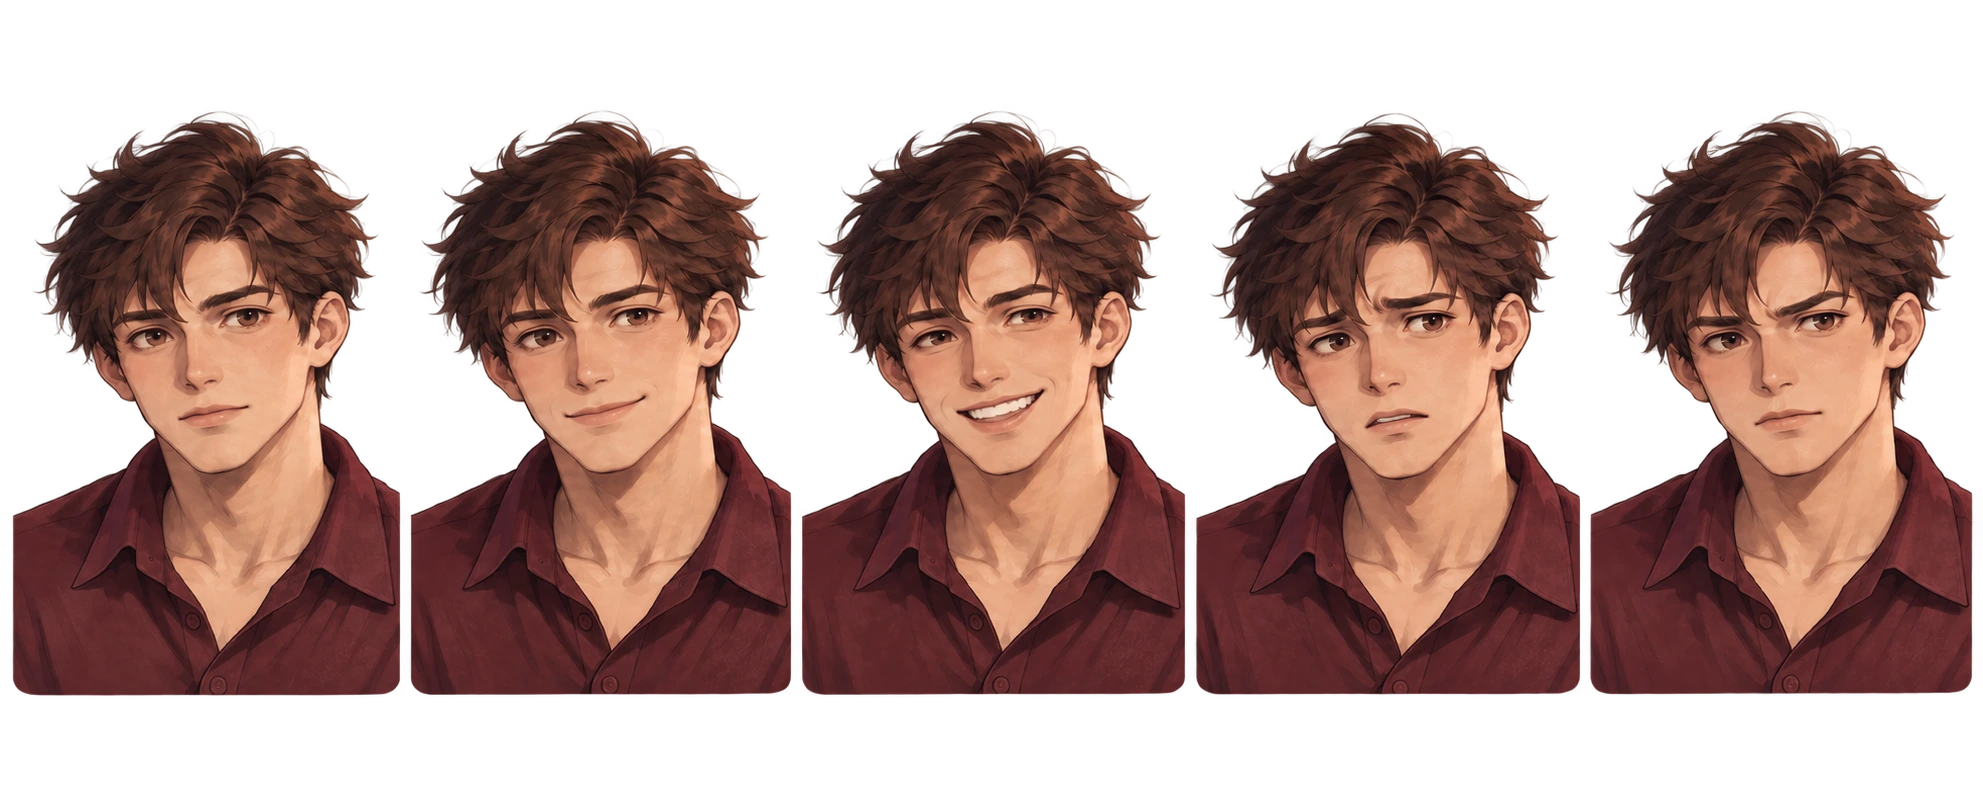
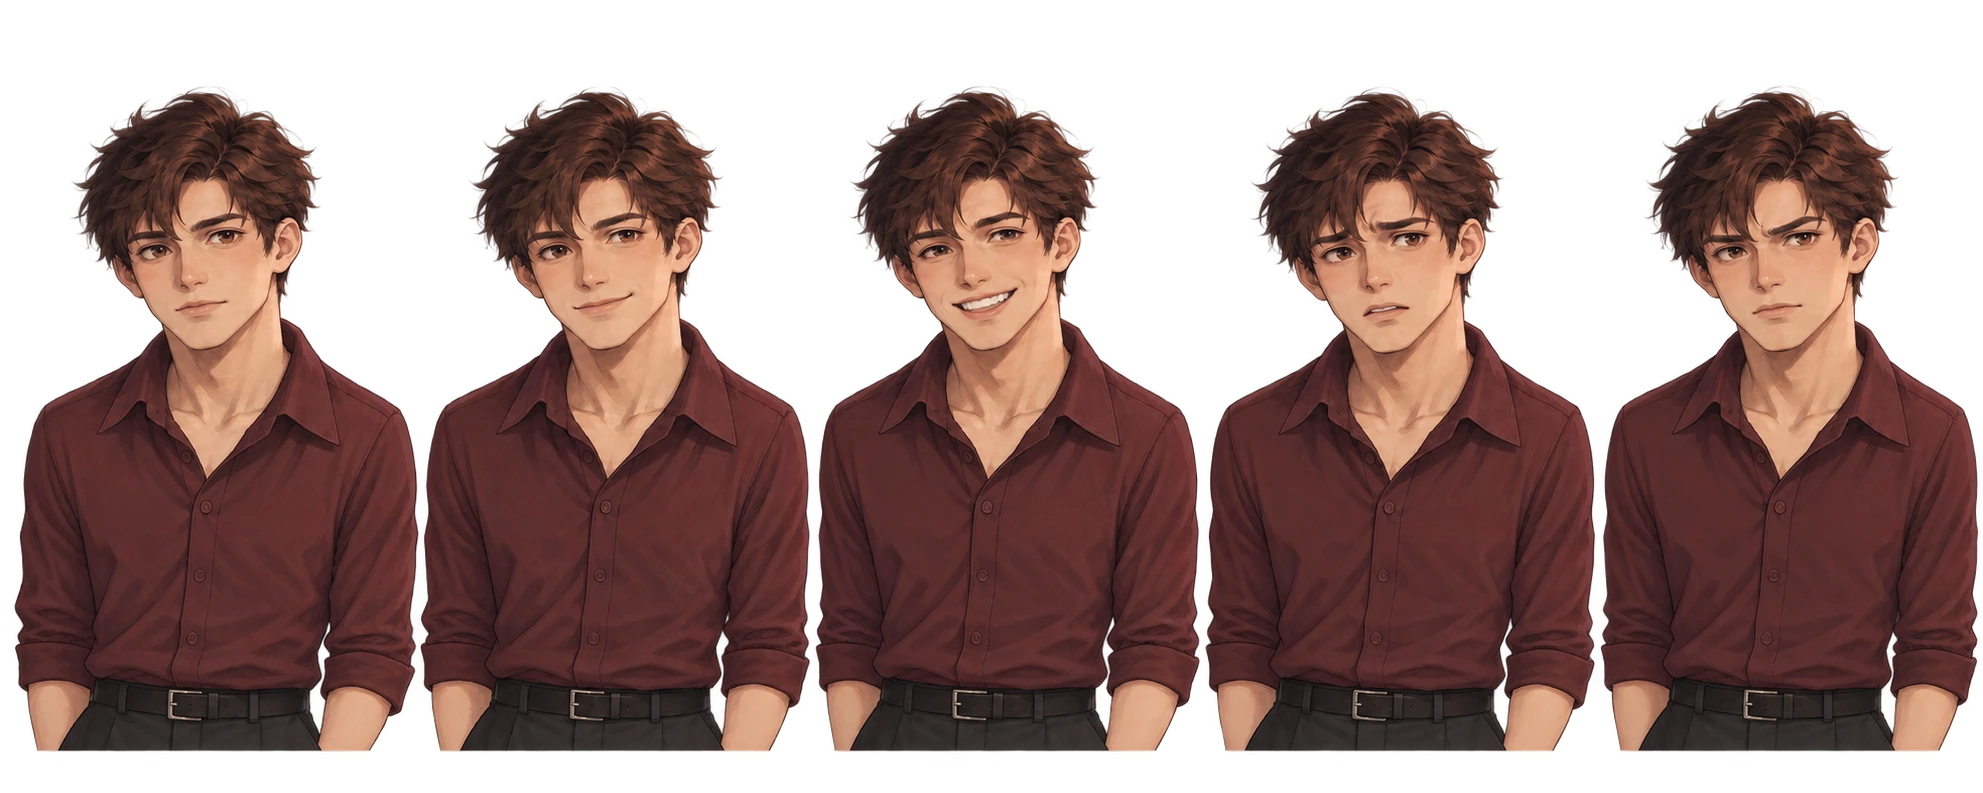
Restore complete shoulders and correct individual portrait frames

diff --git a/src/render/portrait-frames.ts b/src/render/portrait-frames.ts
@@ -1,45 +1,101 @@
-// Transparent expression sheets: neutral, smile, joy, worry, stern.
-export const portraitFrames: Record<string, {width: number; sourceHeight: number; top: number; height: number}> = {
+// Transparent waist-up sheets; per-frame bounds preserve complete shoulder silhouettes.
+export const portraitFrames: Record<string, {width: number; sourceHeight: number; top: number; height: number; edges: number[]}> = {
   "hero-f": {
     "width": 2078,
     "sourceHeight": 757,
-    "top": 68,
-    "height": 628
+    "top": 30,
+    "height": 688,
+    "edges": [
+      0,
+      433,
+      838,
+      1244,
+      1662,
+      2078
+    ]
   },
   "hero-m": {
     "width": 1983,
     "sourceHeight": 793,
-    "top": 71,
-    "height": 658
+    "top": 31,
+    "height": 721,
+    "edges": [
+      0,
+      421,
+      814,
+      1203,
+      1598,
+      1983
+    ]
   },
   "kurator": {
-    "width": 2041,
+    "width": 2042,
     "sourceHeight": 770,
-    "top": 69,
-    "height": 639
+    "top": 30,
+    "height": 700,
+    "edges": [
+      0,
+      424,
+      828,
+      1224,
+      1634,
+      2042
+    ]
   },
   "director-college": {
-    "width": 1915,
-    "sourceHeight": 821,
-    "top": 73,
-    "height": 681
+    "width": 2146,
+    "sourceHeight": 733,
+    "top": 29,
+    "height": 667,
+    "edges": [
+      0,
+      456,
+      870,
+      1302,
+      1730,
+      2146
+    ]
   },
   "director-company": {
-    "width": 2035,
-    "sourceHeight": 773,
-    "top": 69,
-    "height": 641
-  },
-  "mentor": {
-    "width": 2067,
-    "sourceHeight": 761,
-    "top": 68,
-    "height": 631
+    "width": 2032,
+    "sourceHeight": 774,
+    "top": 30,
+    "height": 704,
+    "edges": [
+      0,
+      410,
+      810,
+      1214,
+      1622,
+      2032
+    ]
   },
   "hr": {
     "width": 2048,
     "sourceHeight": 768,
-    "top": 69,
-    "height": 637
+    "top": 30,
+    "height": 698,
+    "edges": [
+      0,
+      432,
+      830,
+      1236,
+      1642,
+      2048
+    ]
+  },
+  "mentor": {
+    "width": 2067,
+    "sourceHeight": 761,
+    "top": 30,
+    "height": 692,
+    "edges": [
+      0,
+      412,
+      825,
+      1234,
+      1647,
+      2067
+    ]
   }
 };

diff --git a/src/render/illustrated-portraits.ts b/src/render/illustrated-portraits.ts
@@ -11,8 +11,8 @@ export function illustratedPortrait(id: string, emotion: Emotion, label: string,
   const image = images[`../../assets/portraits/${id}.webp`];
   if (!frame || !image) return undefined;
   const index = Math.max(0, emotions.indexOf(emotion));
-  const width = frame.width / 5;
-  const x = width * index;
+  const x = frame.edges[index]!;
+  const width = frame.edges[index + 1]! - x;
   const backing = plate ? `<rect x="${x}" y="${frame.top}" width="${width}" height="${frame.height}" rx="20" fill="${escapeAttribute(plate)}"/>` : '';
   return `<svg class="illustrated-portrait" data-character="${escapeAttribute(id)}" data-emotion="${emotion}" viewBox="${x} ${frame.top} ${width} ${frame.height}" width="${width}" height="${frame.height}" xmlns="http://www.w3.org/2000/svg" role="img" aria-label="${escapeAttribute(label)}">
     ${backing}<image href="${image}" x="0" y="0" width="${frame.width}" height="${frame.sourceHeight}"/>

diff --git a/assets/portraits/README.md b/assets/portraits/README.md
@@ -15,3 +15,7 @@
 в `src/render/illustrated-portraits.ts`. Эмоции выбираются SVG-окном без
 повторной загрузки изображения. Отдельные подписи имени и роли выводит UI.
 Существующие параметры SVG сохранены как запасной вариант для новых персонажей.
+
+Портреты дорисованы до пояса с полным контуром плеч и верхней части рук.
+Кадры оставляют боковые прозрачные отступы; проверка `portrait-smoke.mjs`
+контролирует отсутствие непрозрачных срезов в зоне головы и плеч.
